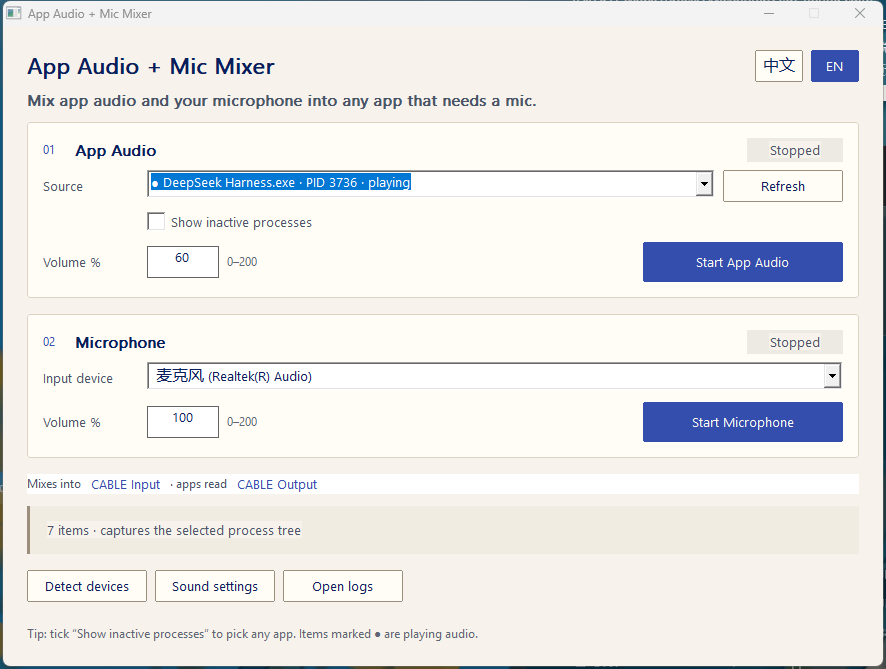
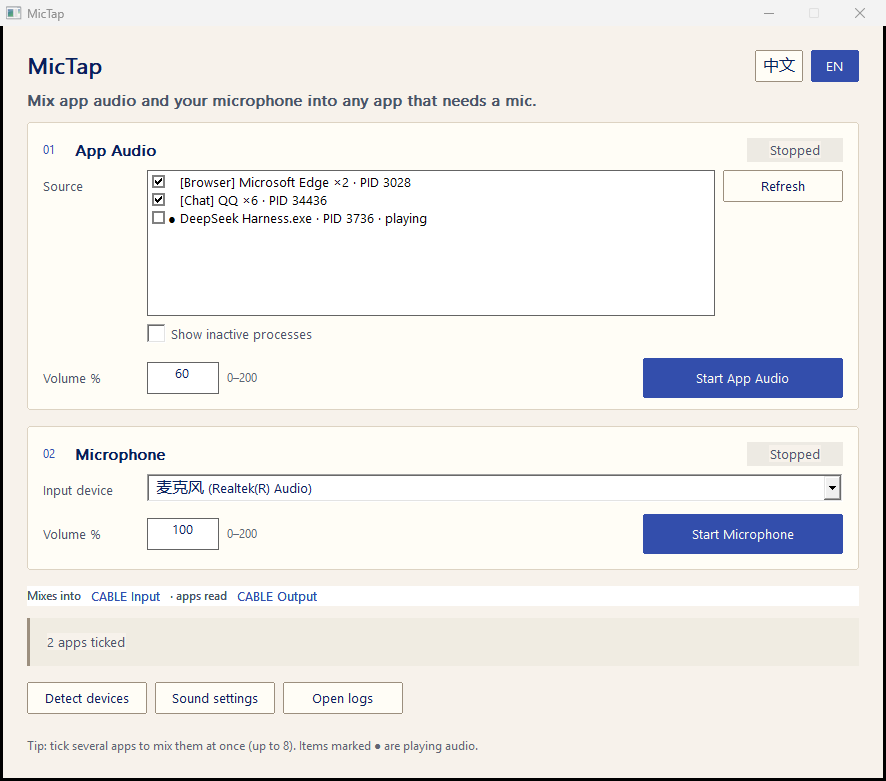
docs: document multi-app mixing and refresh screenshots
Bump the version resource to 0.2.0.0 and add the 0.2.0 changelog entry.

diff --git a/README.md b/README.md
@@ -2,10 +2,10 @@
 
 **Per-application audio + your microphone → one virtual microphone, on Windows.**
 
-MicTap captures the sound of *one specific process* (not the whole desktop), optionally mixes your
-physical microphone into it, and writes the result to a virtual audio cable. Any app that lets you
-choose a microphone — Discord, KOOK, TeamSpeak, Teams, Zoom, OBS, a browser tab — picks it up as a
-regular mic.
+MicTap captures the sound of *the applications you tick* (not the whole desktop), optionally mixes
+your physical microphone into it, and writes the result to a virtual audio cable. Any app that lets
+you choose a microphone — Discord, KOOK, TeamSpeak, Teams, Zoom, OBS, a browser tab — picks it up as
+a regular mic.
 
 <p align="center">
   <img src="assets/ui-en.png" alt="MicTap user interface" width="820">
@@ -34,7 +34,8 @@ tree** — enough to cover multi-process apps such as browsers, Electron players
 
 | | |
 | --- | --- |
-| **Process-scoped capture** | Pick the exact app; child processes and helper renderers are included, the rest of the desktop is not. |
+| **App-scoped capture** | Tick the exact apps; child processes and helper renderers are included, the rest of the desktop is not. |
+| **Multi-app mixing** | Up to eight applications can be ticked at once — a music player plus a browser plus a game — and are summed into the same output on one clock. |
 | **Live mixing with a real mic** | Application audio and a physical microphone are mixed in one engine, on one clock, so the two never drift apart. |
 | **Independent lanes** | Start/stop app audio and microphone separately; adjust each gain 0–200 %. |
 | **Single executable** | UI and audio engine in one Win32 binary. No .NET runtime, no PowerShell, no installer, no background service. |
@@ -59,8 +60,9 @@ tree** — enough to cover multi-process apps such as browsers, Electron players
 1. Install VB-CABLE and reboot.
 2. Download `MicTap.exe` from [Releases](../../releases), put it in a normal folder such as
    `%LOCALAPPDATA%\Programs\MicTap\`, and run it.
-3. In **01 App audio**, pick the app in the *Source* list, set a volume, click **Start App Audio**.
-   (Optional) in **02 Microphone**, pick your mic and click **Start Microphone**.
+3. In **01 App audio**, tick one or more apps in the *Source* list (the checkboxes), set a volume,
+   click **Start App Audio**. (Optional) in **02 Microphone**, pick your mic and click
+   **Start Microphone**.
 4. In Discord / KOOK / your meeting app: microphone = `CABLE Output (VB-Audio Virtual Cable)`,
    and turn off its automatic gain control and noise suppression.
 
@@ -68,6 +70,8 @@ tree** — enough to cover multi-process apps such as browsers, Electron players
 
 - Entries marked `●` are currently rendering audio. *Show inactive processes* lists everything else
   so you can pick an app that is not playing right now.
+- **Tick several apps to mix them** (up to eight). The ticks survive a restart — each one is remembered
+  by executable path *and* process creation time, so a recycled PID never re-binds to the wrong app.
 - Both lanes are independent; either one alone works.
 - **Detect devices** re-scans for the cable and refreshes the microphone list, **Sound settings**
   opens the Windows recording panel, **Open logs** shows the diagnostic folder.
@@ -77,19 +81,20 @@ tree** — enough to cover multi-process apps such as browsers, Electron players
 ## How it works
 
 ```
-target process (PID + child tree)
-        │  Application Loopback, 48 kHz / stereo / float32
-        ▼
-   capture client ──► deque<float> ──┐
-                                     ├─► per-frame sum ─► soft limiter ─► IAudioRenderClient
-   physical microphone (WASAPI) ─────┘                                   (CABLE Input)
-        │  shared mode, same 48 kHz / stereo / float32                        │
-        ▼                                                                     ▼
-   capture client                                                   CABLE Output ─► voice app
+ticked app #1 (PID + child tree) ─┐
+ticked app #2 (PID + child tree) ─┤   Application Loopback, 48 kHz / stereo / float32
+        …  up to eight           ─┤
+                                  ▼
+        physical microphone ──► capture client ──► deque<float> ──┐
+                                                                  ├─► per-frame sum ─► soft limiter ─► IAudioRenderClient
+                                                                  │                                     (CABLE Input)
+                                                                  │                                          │
+                                                                  ▼                                          ▼
+                                                                                            CABLE Output ─► voice app
 ```
 
-- One engine thread polls both capture clients, mixes on a single sample clock and writes to the
-  render client; the UI thread only flips atomic flags.
+- One engine thread polls every ticked capture client plus the microphone, mixes them on a single
+  sample clock and writes to the render client; the UI thread only flips atomic flags.
 - Capture and render are opened in **shared mode with `AUTOCONVERTPCM`**, so Windows owns sample
   rate conversion and the app never hand-rolls a resampler.
 - A prefetch high-water mark (~50 ms) and a drop threshold (~150 ms) bound latency and prevent
@@ -104,16 +109,16 @@ More detail: [docs/ARCHITECTURE.md](docs/ARCHITECTURE.md).
 
 ```text
 MicTap.exe --dump                        write the process discovery result to logs\discovery.txt
-MicTap.exe --route <PID> [seconds] [mic index]
-                                         route a process for N seconds, report to logs\route-test.txt
+MicTap.exe --route <PID[,PID…]> [seconds] [mic index]
+                                         route one or more apps for N seconds, report to logs\route-test.txt
 ```
 
 `--route` writes a report such as:
 
 ```text
-pid=12120 cable_input=FOUND
-captured_frames=179040 peak=0.653235 queued=0 open=1
-mic_frames=240480 mic_peak=0.007327 mic_open=1
+pid=37932,37964 cable_input=FOUND lanes=2
+captured_frames=276480 peak=0.791960 queued=0 open=1
+lane1_frames=276480 lane1_peak=0.791960 lane1_open=1
 ```
 
 `open=1` means the capture stream is live, `peak` proves non-silent audio is flowing,

diff --git a/docs/ARCHITECTURE.md b/docs/ARCHITECTURE.md
@@ -24,15 +24,22 @@ The UI thread never touches an audio interface, and the engine thread never touc
 
 ## 2. Sources
 
-Two `Source` objects exist for the whole session:
+`kMaxApps` (8) application lanes plus one microphone lane exist for the whole session:
 
 | Source | Opened with | Flags |
 | --- | --- | --- |
-| application audio | `ActivateAudioInterfaceAsync(VIRTUAL_AUDIO_DEVICE_PROCESS_LOOPBACK, …)` + `IAudioClient` | `AUDCLNT_STREAMFLAGS_LOOPBACK \| AUTOCONVERTPCM \| SRC_DEFAULT_QUALITY` |
+| application audio (per ticked app) | `ActivateAudioInterfaceAsync(VIRTUAL_AUDIO_DEVICE_PROCESS_LOOPBACK, …)` + `IAudioClient` | `AUDCLNT_STREAMFLAGS_LOOPBACK \| AUTOCONVERTPCM \| SRC_DEFAULT_QUALITY` |
 | physical microphone | `IMMDeviceEnumerator::GetDevice` → `IMMDevice::Activate(IAudioClient)` | `AUTOCONVERTPCM \| SRC_DEFAULT_QUALITY` (no loopback flag) |
 
-Both produce the same internal format — 48 kHz, stereo, `float32` — so the mixer is a plain
-per-frame addition.
+All of them produce the same internal format — 48 kHz, stereo, `float32` — so the mixer is a plain
+per-frame addition over however many lanes are open.
+
+The engine keeps a `std::vector<DWORD>` of wanted PIDs (copied under `cfgLock` once per iteration) and
+compares it with the currently open set. A difference closes every lane and reopens the wanted ones;
+this only happens on a start/stop, because the UI refuses to change the selection while the lane runs.
+Each lane carries its own `HANDLE watch` from `OpenProcess(SYNCHRONIZE | PROCESS_QUERY_LIMITED_INFORMATION)`,
+so a target that exits is detected with `WaitForSingleObject(watch, 0)` and that one lane reports
+`Stale target` instead of the whole lane dying.
 
 ### 2.1 Why Application Loopback instead of the default loopback device
 

diff --git a/CHANGELOG.md b/CHANGELOG.md
@@ -6,6 +6,35 @@ All notable changes to this project are documented here. The format follows
 
 ## [Unreleased]
 
+## [0.2.0] — 2026-10-17
+
+Multiple applications can be captured at once. This is the first release where the app-audio lane is
+a list rather than a single choice.
+
+### Added
+
+- **Multi-app mixing.** Up to eight applications can be ticked in the source list and are summed into
+  the same output, so a music player, a browser and a game can share one virtual microphone.
+- The tick boxes are remembered across restarts in `settings.ini` (`[ui] picked=`). Each entry is keyed
+  by executable path plus process creation time, so a recycled PID never re-binds to a different
+  program.
+- `--route` accepts a comma-separated PID list (`--route 37932,37964 6`) and reports one
+  `laneN_frames / laneN_peak / laneN_open` triple per captured app.
+- `--dump` appends the stable selection key to every row, which makes tick persistence diagnosable.
+
+### Changed
+
+- The source control is now a multi-select list with native check boxes instead of a drop-down.
+- A lane that loses its target only reports `Stale target` for that lane; the other lanes keep running.
+  The whole lane stops only when every target is gone.
+- The window grew from 880×640 to 880×752 to fit the list, and the whole layout moved 116 px down.
+
+### Fixed
+
+- Rebuilding the list fired one `LVN_ITEMCHANGED` per inserted row, which overwrote the stored
+  selection mid-rebuild and dropped every tick. Notifications are now ignored while the list is
+  repopulated.
+
 ## [0.1.1] — 2026-10-17
 
 Process list cleanup; no behavioural change to the audio path.
